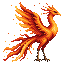
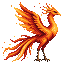
Three things the sweep said about legends nobody had measured
The release sweep and CI both refused the four mythics, for three reasons I
would have shipped:

The phoenix flies, and a flyer needs a grounded idle of five poses as well as
its wingbeat - the rule a trimmed idle broke on a release once before. It has
one now.

The griffon pursued at 227 units a second against a hero who walks at 200. A
hunt nothing can walk away from is a timer on the health bar rather than a
fight, so its charge is 1.15 now: it closes on a player who stands and loses one
who commits to leaving.

And the hollowhorn hit for 46 when the hardest body the road sends hits for 44.
Ambient wildlife must never be the deadliest content in the game - it hits for
41, which still makes it the thing off the path you do not walk into casually.

All three are bounds the regression gate already held and nobody had run since
the animals were authored. That is the same lesson as the four red gates of
earlier today, which is why the sweep belongs after the last edit and before the
tag.

[regression] PASS   [wildlife] PASS   [mythic-trail] PASS - 170 checks
asset report: all 3872 manifest assets exist, 3872 real
release sweep: 114 / 115 before this, the one being the phoenix

diff --git a/docs/ASSET_MANIFEST.md b/docs/ASSET_MANIFEST.md
@@ -1611,7 +1611,7 @@ Files: `wildlife_moonstag_idle_01.png` · `wildlife_moonstag_idle_02.png` · `wi
 Files: `wildlife_griffon_idle_01.png` · `wildlife_griffon_idle_02.png` · `wildlife_griffon_idle_03.png`
 Files: `wildlife_glimmerfox_idle_01.png` · `wildlife_glimmerfox_idle_02.png` · `wildlife_glimmerfox_idle_03.png`
 Files: `wildlife_hollowhorn_idle_01.png` · `wildlife_hollowhorn_idle_02.png` · `wildlife_hollowhorn_idle_03.png`
-Files: `wildlife_phoenix_idle_01.png` · `wildlife_phoenix_idle_02.png` · `wildlife_phoenix_idle_03.png`
+Files: `wildlife_phoenix_idle_01.png` · `wildlife_phoenix_idle_02.png` · `wildlife_phoenix_idle_03.png` · `wildlife_phoenix_idle_04.png` · `wildlife_phoenix_idle_05.png`
 Files: `wildlife_heron_idle_01.png` · `wildlife_heron_idle_02.png` · `wildlife_heron_idle_03.png`
 Files: `wildlife_hedgehog_idle_01.png` · `wildlife_hedgehog_idle_02.png` · `wildlife_hedgehog_idle_03.png`
 Files: `wildlife_lynx_idle_01.png` · `wildlife_lynx_idle_02.png` · `wildlife_lynx_idle_03.png` · `wildlife_lynx_idle_04.png`
